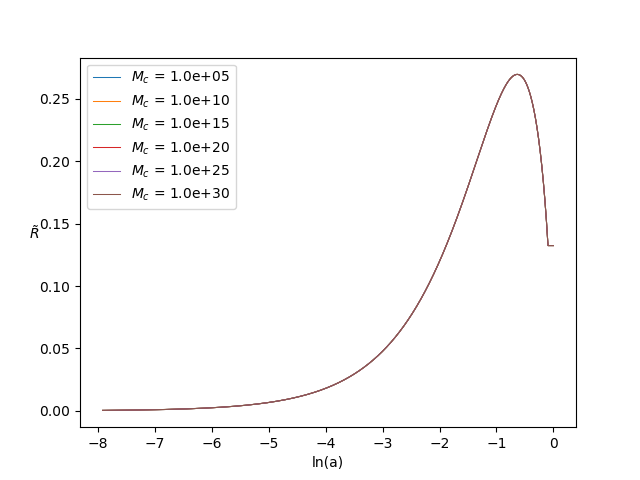
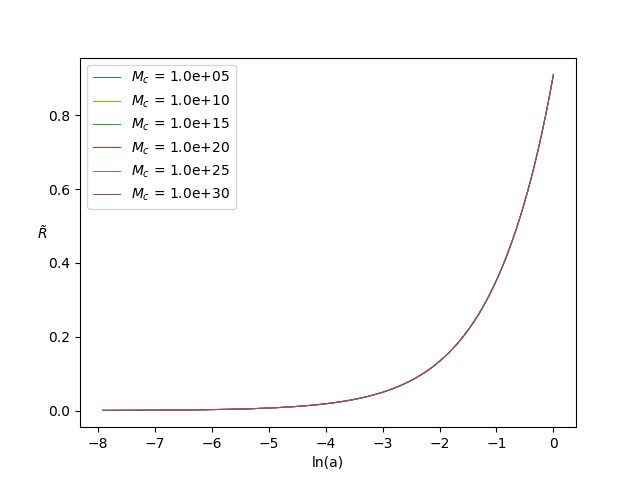
Stuf

diff --git a/Kode/betternewvir.py b/Kode/betternewvir.py
@@ -14,6 +14,7 @@ G = 1/(4*np.pi)			#M^3/kg/s^2 not these units
 M_pl = 1./np.sqrt(8*np.pi*G)
 H_0 = 1./M_pl
 rho_c0 = 3*H_0**2/(8*np.pi*G)
+M_sun = 2e30
 
 print H_0, G, M_pl, rho_c0
 
@@ -23,15 +24,11 @@ def vircheck(R, y, Omega_m0, Lambda, delta_i, acceleration, E, gamma, beta, M, f
 
 	rad = R[:, 0]
 	drdy = R[:, 1]
-	ddrddy = np.zeros(len(rad))
+	ddrddy = acceleration( Omega_m0, Lambda, delta_i, a, rad, drdy, E, gamma, beta, M, f_R0, delta_rho, n )
 	s = j = np.argmax(rad)
 	W_ta = potential(rad[s], drdy[s], ddrddy[s], a[s], E, Omega_m0, Lambda, gamma, beta, delta_rho, M, r, delta_i, n )
 	T = kinetic(drdy)
-	W = np.zeros(len(T))
-	for i in range(len(rad)):
-		ddrddy[i] = acceleration( Omega_m0, Lambda, delta_i, a[i], rad[i], drdy[i], E, gamma, beta, M, f_R0, delta_rho, n )
-
-		W[i] = potential(rad[i], drdy[i], ddrddy[i], a[i], E, Omega_m0, Lambda, gamma, beta, delta_rho, M, r, delta_i, n)
+	W = potential(rad, drdy, ddrddy, a, E, Omega_m0, Lambda, gamma, beta, delta_rho, M, r, delta_i, n)
 
 	
 
@@ -68,6 +65,7 @@ def vircheck(R, y, Omega_m0, Lambda, delta_i, acceleration, E, gamma, beta, M, f
 
 		file.write("{:1.10e} \n".format(rviroverrta))
 		file.write("{:1.5f} \n".format(aviroverata))
+		file.write("{:1.5e} \n".format(a[k]))
 	else:
 		file.write("These parameters do not lead to collapse. \n")
 	return rad, T, W
@@ -77,7 +75,7 @@ def kinetic( drdy ):
 	return 3./10.*drdy**2
 
 def potential( radius, dotR, ddotR, a, E, Omega_m0, Lambda, gamma, beta, delta_rho, M, r, delta_i, n ):
-	W = 3./5.*radius*(-3*Omega_m0/(2*a**3*E(Omega_m0, Lambda, a, gamma, beta, n, f_R0, delta_rho, delta_i, M, radius ))*dotR + ddotR)
+	W = 3./5.*radius*(-3*Omega_m0/(2*a**3*E(Omega_m0, Lambda, a, gamma, beta))*dotR + ddotR)
 	return W
 
 
@@ -223,12 +221,15 @@ def findcoll(tolerance, acceleration, model, E, gamma, beta, M, f_R0, delta_rho,
 
 	return T, W, y, delta_max
 
+def gammaBack(beta):
+	return 1 + 2*beta**2
+
 def d_rho(Omega_m0, Lambda, delta_i, M, R, beta, n, f_R0):
-	return 2*G*M/(H_0**2*R**3)
+	return Omega_m0*(1 + delta_i)/R**3
 
 def d_rho_complex(Omega_m0, Lambda, delta_i, M, a, beta, n, f_R0):
 	R0 = 3.*H_0**2*(Omega_m0 + 4*Lambda)
-	R_c = np.sqrt(delta_i)*(n + 1)*abs(1 - f_R0)*R0/(2*beta**2)*( (Omega_m0 + 4*Lambda)/(Omega_m0/a**3 + 4*Lambda) )**(n + 2)
+	R_c = np.sqrt(delta_i)*(n + 1)*abs(1 - f_R0)/(2*beta**2*R0)*( (Omega_m0 + 4*Lambda)/(Omega_m0/a**3 + 4*Lambda) )**(n + 2)
 	#R_c = 1e-4
 	return 3.*M/(4.*rho_c0*np.pi*R_c**3)
 
@@ -240,27 +241,22 @@ def ELCDMnorad(Omega_m0, Lambda, a, gamma, beta):
 
 def chameleonacc( Omega_m0, Lambda, delta_i, a, r, drdy, E, gamma, beta, M, f_R0, delta_rho, n ):
 	return  ( Lambda*r - gamma(Omega_m0, Lambda, delta_i, beta, n, M, f_R0, delta_rho, r, a, True)*Omega_m0*(1 + delta_i)/(2*r**2) + \
-		3./2.*gamma(Omega_m0, Lambda, delta_i, beta, n, M, f_R0, delta_rho, r, a, True)*Omega_m0*drdy/a**3)/E(Omega_m0, Lambda, a, gamma, beta, n, f_R0, delta_rho, delta_i, M, r)
+		3./2.*gammaBack(beta)*Omega_m0*drdy/a**3)/E(Omega_m0, Lambda, a, gammaBack, beta)
 
-def Echamnorad( Omega_m0, Lambda, a, gamma, beta, n, f_R0, delta_rho, delta_i, M, r ):
-	return gamma(Omega_m0, Lambda, delta_i, beta, n, M, f_R0, delta_rho, r, a, True)*Omega_m0/a**3 + Lambda
+def Echamnorad( Omega_m0, Lambda, a, gamma, beta,  ):
+	return gammaBack(beta)*Omega_m0/a**3 + Lambda
 
 first = True
 def gammaHuSawicki1( Omega_m0, Lambda, delta_i, beta, n, M, f_R0, delta_rho, r, a, perturbation ):
-	if perturbation:
-		#print Omega_m0, Lambda, delta_i, beta, n, M, f_R0, delta_rho(M), r, a
-		Phi_N = ( 2*G**4*M**4/( H_0**2*Omega_m0*(1 + delta_i)*r**3 ) )
+	
+	#print Omega_m0, Lambda, delta_i, beta, n, M, f_R0, delta_rho(M), r, a
+	Phi_N = ( 2*G**4*M**4/( H_0**2*Omega_m0*(1 + delta_i)*r**3 ) )
 
-		return 1 - 2*beta**2*(1 - abs(1-f_R0)/(12*beta**2*Phi_N)*( (Omega_m0 + 4*Lambda)/(delta_rho(Omega_m0, Lambda, delta_i, M, a, beta, n, f_R0) - Omega_m0/a**3) )**(n + 1) )
-		#return 1 - 2*beta**2*( 1- abs(1 - f_R0)*r_iovera_i*r/(12*beta*G*M)*( (Omega_m0 + 4*Lambda)/(delta_rho(Omega_m0, delta_i, r, r_iovera_i) - Omega_m0/a**3) )**(n/(n + 1)) )
-	elif delta_i <= 1e-14:
-		return 1 - 2*beta**2
-	else:
-		return 1 - 2*beta**2
+	return 1 + 2*beta**2*(1 - (abs(1-f_R0)/(12*beta**2*Phi_N)*( (Omega_m0 + 4*Lambda)/(delta_rho(Omega_m0, Lambda, delta_i, M, r, beta, n, f_R0) - Omega_m0/a**3) )**(n + 1))**3 )
+	#return 1 - 2*beta**2*( 1- abs(1 - f_R0)*r_iovera_i*r/(12*beta*G*M)*( (Omega_m0 + 4*Lambda)/(delta_rho(Omega_m0, delta_i, r, r_iovera_i) - Omega_m0/a**3) )**(n/(n + 1)) )
 
-def gammaHuSawicki( Omega_m0, Lambda, delta_i, a, M_c, R_c, f_R0, beta, R_i, a_i, phi_inf, n ):
-	R_c = R_c(Omega_m0, Lambda, delta_max, phi_inf, n, f_R0)
-	return 1+ 2*beta**2*( 1- abs(1 - f_R0)*r*R_i/(12*beta**2*(G*M_c*a_i))*( (Omega_m0 + 4*Lambda)/(3*M_c/(4*rho_c0*np.pi*R_c**3) - Omega_m0/a**3) ))
+
+	
 
 def R_c(Omega_m0, Lambda, delta_i, phi_inf, n, f_R0):
 	R_0 = 3*H_0*(Omega_m0 + 4*Lambda)
@@ -275,24 +271,23 @@ a_i = np.exp(y0)
 #findcoll(tolerance, LCDMacc, "EdS", ELCDMnorad, y0)
 
 
-M = 1e14
+M = 1e14*M_sun
 
 beta = 1/np.sqrt(6)
 f_R0 = 1.00001
 n = 0.02
 Omega_m0 = 0.25
 Lambda = 0.75
-
-#fileLCDM = open("Numbers\LCDMviracc.txt", "w")
-
-#fileEdS = open("Numbers\EdSvirracc.txt", "w")
-#filecham = open("Numbers\Chameleon10.txt", "w")
-
-#print "Working on chameleon"
-#Tcham, Wcham, y, d_cham = findcoll(tolerance, chameleonacc, "Chameleon", Echamnorad, gammaHuSawicki1, 1/np.sqrt(6), M, 1.00001, d_rho_complex, 0.02, y0, filecham)
-#a = np.exp(y)
-
 """
+fileLCDM = open("Numbers\LCDMviracc.txt", "w")
+
+fileEdS = open("Numbers\EdSvirracc.txt", "w")
+filecham = open("Numbers\Chameleon10.txt", "w")
+print "Working on chameleon"
+Tcham, Wcham, y, d_cham = findcoll(tolerance, chameleonacc, "Chameleon", Echamnorad, gammaHuSawicki1, 1/np.sqrt(6), M, 1.00001, d_rho_complex, 0.02, y0, filecham)
+a = np.exp(y)
+
+
 print "Working on LCDM"
 T1, W1, y, d_LCDM = findcoll(tolerance, LCDMacc, "LCDM", ELCDMnorad, 0, 0, 0, 0, 0, 0, y0, fileLCDM)
 print "Working on EdS"
@@ -341,22 +336,24 @@ mpl.ylabel(r"$-\frac{W}{T}$", rotation = 0)
 mpl.legend()
 mpl.savefig("Figures\RelativeEnergies.png")
 mpl.clf()
-"""
+
 mpl.clf()
+"""
+
 N = 5000000
 y = np.linspace(y0, -1e-15, N)
 r0 = np.exp(y0)
 drdx0 = np.exp(y0)
 
-"""
+
 masses = [1e5, 1e10, 1e15, 1e20, 1e25, 1e30]
 #want to loop over masses, but not within the rootfinding. I want a figure showing how Delta=rho_p/rho_b varies with the mass and curvature
 print "On loop over M"
 Mloop = open("Numbers\Massloop.txt", "w")
 for Mass in masses:
 	Mloop.write("M = {:1.1e} \n".format(Mass))
-	rad = odeint(r, [r0, drdx0], y, args = ( chameleonacc, Omega_m0, Lambda, d_cham, Echamnorad, gammaHuSawicki1, beta, Mass, f_R0, d_rho_complex, n) )
-	rvir, T, W = vircheck( rad, y, Omega_m0, Lambda, d_cham, chameleonacc, Echamnorad, gammaHuSawicki1, beta, Mass, f_R0, d_rho_complex, n, Mloop )
+	rad = odeint(r, [r0, drdx0], y, args = ( chameleonacc, Omega_m0, Lambda, 2.5e-4, Echamnorad, gammaHuSawicki1, beta, Mass*M_sun, f_R0, d_rho, n) )
+	rvir, T, W = vircheck( rad, y, Omega_m0, Lambda, 2.5e-4, chameleonacc, Echamnorad, gammaHuSawicki1, beta, Mass*M_sun, f_R0, d_rho, n, Mloop )
 	mpl.plot(y, rvir, linewidth = 0.75, label = r"$M_c$ = %1.1e" % Mass)
 Mloop.close()
 mpl.xlabel("ln(a)")
@@ -364,7 +361,7 @@ mpl.ylabel(r"$\tilde{R}$", rotation = 0)
 mpl.legend()
 mpl.savefig("Figures\Massloop.png")
 mpl.clf()
-
+"""
 print "Loop over f_R0"
 M = 1e14
 f_R0_list = np.array([1e-8, 1e-7, 1e-6, 1e-5, 1e-4]) + 1
@@ -398,8 +395,8 @@ mpl.savefig("Figures\Loop_n.png")
 mpl.clf()
 """
 
-r = odeint(r, [r0, drdx0], y, args = ( chameleonacc, Omega_m0, Lambda, 1.5e-3, Echamnorad, gammaHuSawicki1, beta, M, f_R0, d_rho_complex, n) )
+r = odeint(r, [r0, drdx0], y, args = ( chameleonacc, Omega_m0, Lambda, 1.5e-3, Echamnorad, gammaHuSawicki1, beta, M, f_R0, d_rho, n) )
 a = np.exp(y)
-geff = gammaHuSawicki1(Omega_m0, Lambda, 1.5e-3, beta, n, M, f_R0, d_rho_complex, r[:,0], a, True) - 1
+geff = gammaHuSawicki1(Omega_m0, Lambda, 1.5e-3, beta, n, M, f_R0, d_rho, r[:,0], a, True) - 1
 mpl.plot(y, geff)
 mpl.show()
